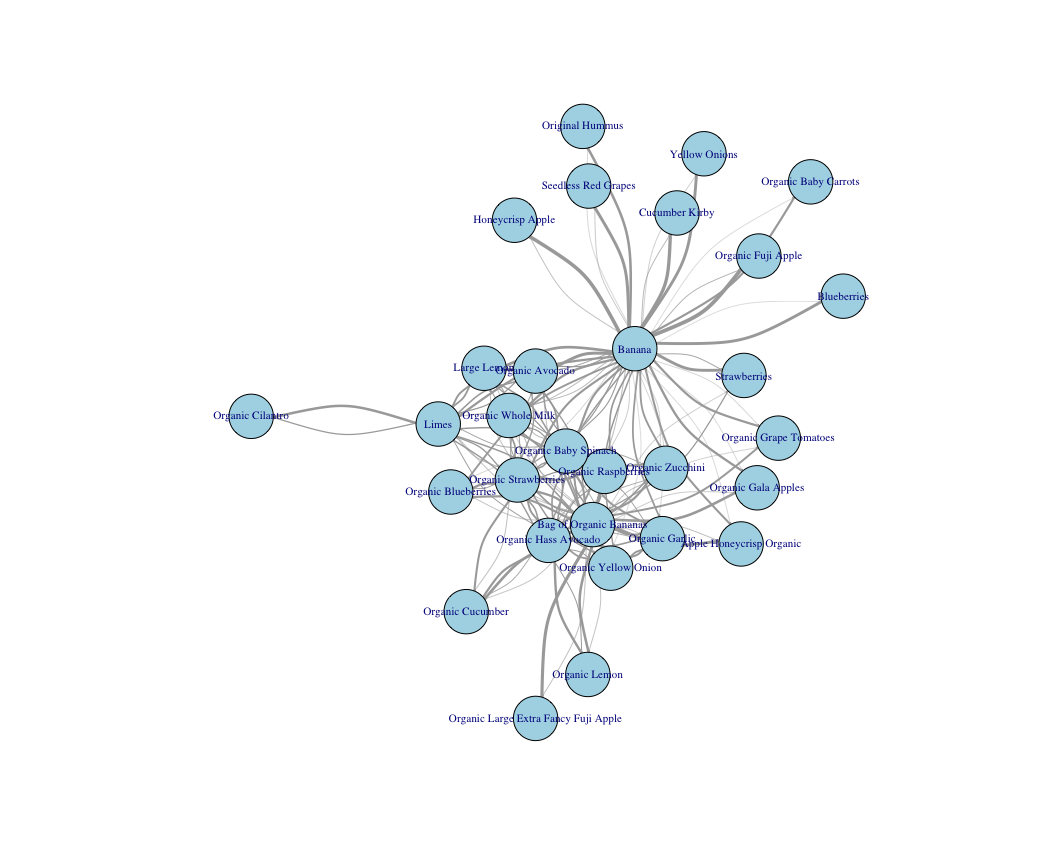
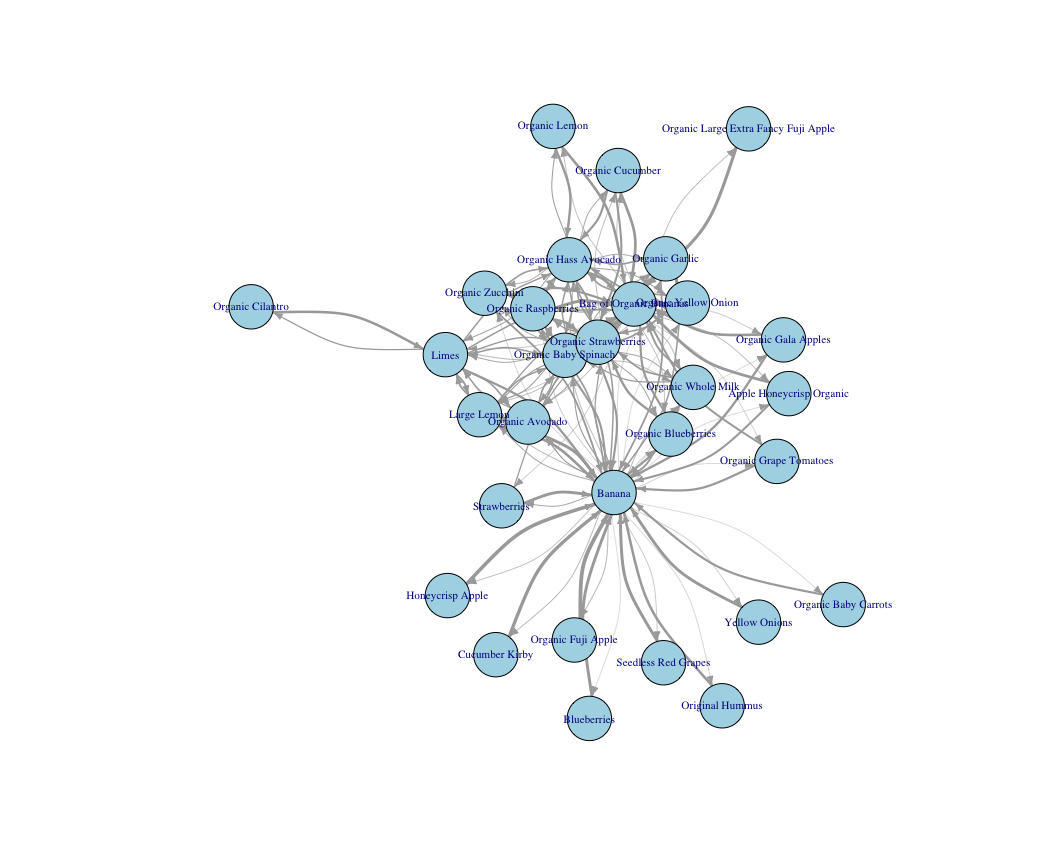
Update figure

Changed region(s): [[0.1875, 0.0938, 0.8438, 0.875], [0.1875, 0.3125, 0.3438, 0.4062]]

diff --git a/README.md b/README.md
@@ -14,7 +14,7 @@ techniques.
 
 ## Import Data to Spark
 
-To facilitate the data processing (\~ 500MB), we run a local Spark
+To facilitate the data processing (~ 500MB), we run a local Spark
 cluster on our machine through `SparklyR`.
 
 ``` r
@@ -116,7 +116,7 @@ edges <- asso %>% mutate(weight = confidence * 10)
 df.g <- graph_from_data_frame(edges, directed = TRUE, vertices = nodes)
 plot(
     df.g,
-    edge.arrow.size = .1,
+    edge.arrow.size = .5,
     edge.curved = .3,
     edge.width = edges$weight,
     vertex.color = "lightblue",
